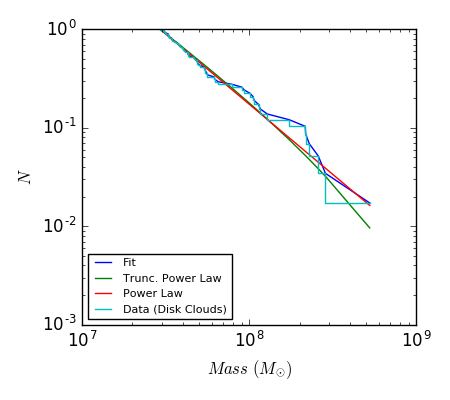
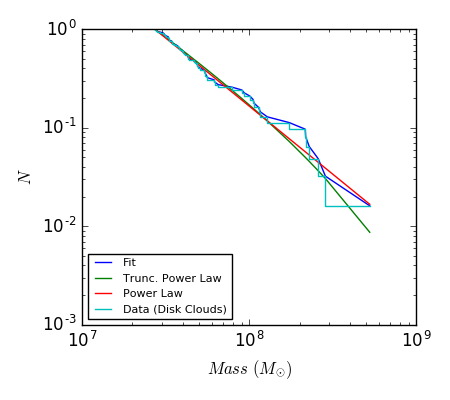
xmin_specified

Changed region(s): [[0.4044, 0.12, 0.84, 0.57], [0.3422, 0.06, 0.4044, 0.12]]

diff --git a/gmc_property_plots.py b/gmc_property_plots.py
@@ -110,7 +110,7 @@ plt.loglog(rgal.to(u.pc)[132],sigma0[132],marker='.',c='m')
 plt.tight_layout() 	
 plt.savefig('sigma0_Rgal_matplotlib.png')
 
-#Luminous mass vs. radius plot
+#X,Y position
 figure = plt.figure(figsize=(4.5,4)) #figure size in inches
 plt.plot(mytable['XPOS'],mytable['YPOS'],linestyle = 'None', marker = '.',c = 'g')
 plt.xlabel('X') 
@@ -145,7 +145,7 @@ plt.savefig('powerlaw.png')
 figure = plt.figure(figsize=(4.5,4)) 
 #Keep only clouds with rgal <1kpc
 mass_nuc = mass[index]
-myfit_nuc = powerlaw.Fit(mass_nuc)
+myfit_nuc = powerlaw.Fit(mass_nuc,xmin = myfit.xmin)
 R_nuc, p_nuc = myfit_nuc.distribution_compare('power_law','truncated_power_law')
 #Plot
 myfit_nuc.plot_ccdf(label='Fit')
@@ -164,7 +164,7 @@ figure = plt.figure(figsize=(4.5,4))
 #Ignore all clouds with rgal >1kpc
 mass_disk = np.delete(mass,index)
 #Fit Data
-myfit_disk = powerlaw.Fit(mass_disk)
+myfit_disk = powerlaw.Fit(mass_disk,xmin = myfit.xmin)
 R_disk, p_disk = myfit_disk.distribution_compare('power_law','truncated_power_law')
 #Plot
 myfit_disk.plot_ccdf(label='Fit')
